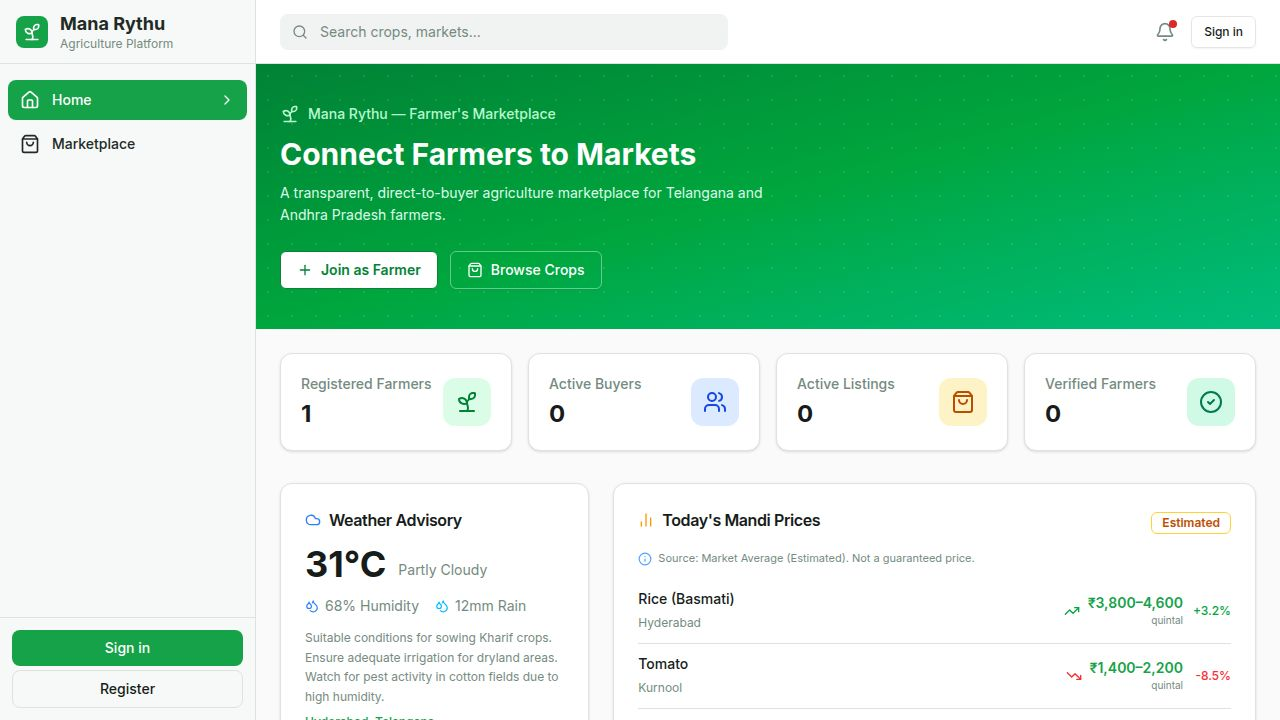
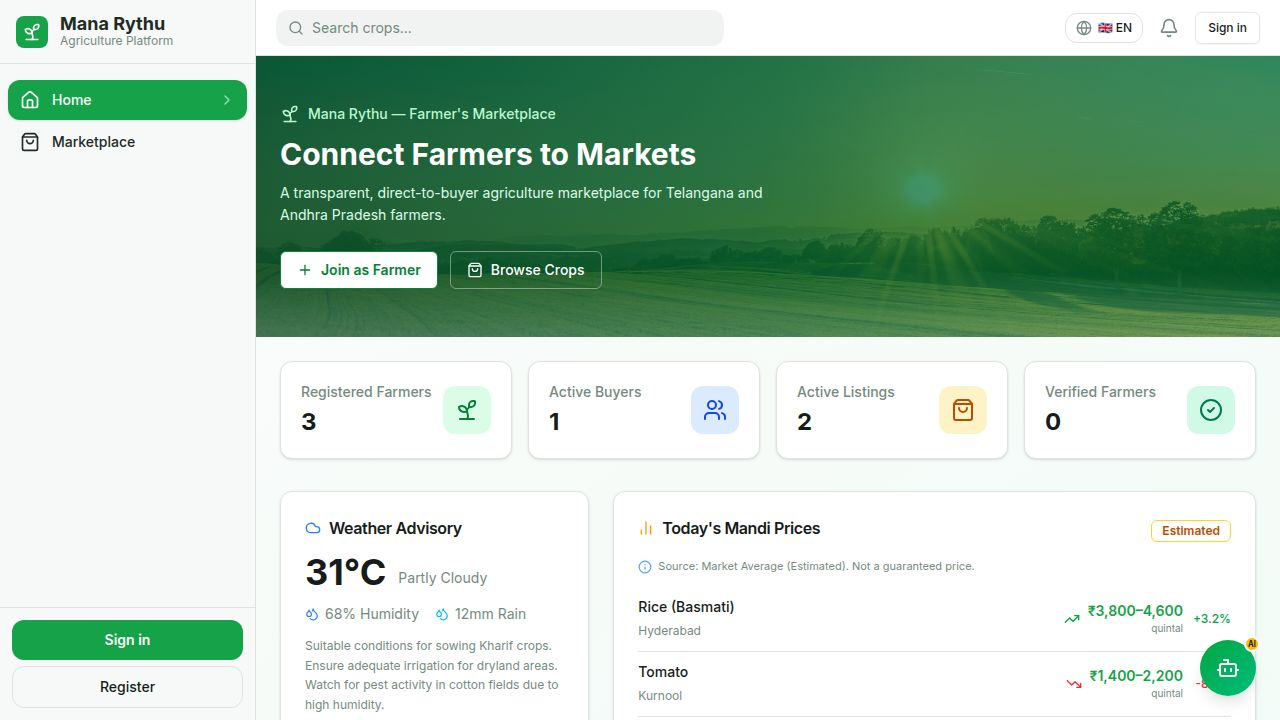
Improve storage access reliability for Safari users
Introduce safe storage utilities to handle Safari's security restrictions with localStorage, ensuring consistent application behavior across browsers.

diff --git a/artifacts/mana-rythu/src/lib/storage.ts b/artifacts/mana-rythu/src/lib/storage.ts
@@ -1,0 +1,25 @@
+const memoryFallback: Record<string, string> = {};
+
+export function safeGetItem(key: string): string | null {
+  try {
+    return localStorage.getItem(key);
+  } catch {
+    return memoryFallback[key] ?? null;
+  }
+}
+
+export function safeSetItem(key: string, value: string): void {
+  try {
+    localStorage.setItem(key, value);
+  } catch {
+    memoryFallback[key] = value;
+  }
+}
+
+export function safeRemoveItem(key: string): void {
+  try {
+    localStorage.removeItem(key);
+  } catch {
+    delete memoryFallback[key];
+  }
+}

diff --git a/artifacts/mana-rythu/src/contexts/language.tsx b/artifacts/mana-rythu/src/contexts/language.tsx
@@ -1,5 +1,6 @@
 import { createContext, useContext, useState, type ReactNode } from "react";
 import { translations, type Lang, type TranslationKey } from "@/lib/translations";
+import { safeGetItem, safeSetItem } from "@/lib/storage";
 
 export type { Lang };
 
@@ -13,20 +14,25 @@ const LanguageContext = createContext<LanguageContextValue | null>(null);
 
 const STORAGE_KEY = "mana_rythu_lang";
 
-export function LanguageProvider({ children }: { children: ReactNode }) {
-  const [lang, setLangState] = useState<Lang>(() => {
-    const stored = localStorage.getItem(STORAGE_KEY) as Lang | null;
-    if (stored && (stored === "en" || stored === "te" || stored === "hi")) return stored;
-    // Auto-detect browser language
+function detectInitialLang(): Lang {
+  const stored = safeGetItem(STORAGE_KEY) as Lang | null;
+  if (stored === "en" || stored === "te" || stored === "hi") return stored;
+  try {
     const browser = navigator.language.toLowerCase();
     if (browser.startsWith("te")) return "te";
     if (browser.startsWith("hi")) return "hi";
-    return "en";
-  });
+  } catch {
+    // navigator.language unavailable (rare edge case)
+  }
+  return "en";
+}
+
+export function LanguageProvider({ children }: { children: ReactNode }) {
+  const [lang, setLangState] = useState<Lang>(detectInitialLang);
 
   const setLang = (l: Lang) => {
     setLangState(l);
-    localStorage.setItem(STORAGE_KEY, l);
+    safeSetItem(STORAGE_KEY, l);
   };
 
   const t = (key: TranslationKey): string => {

diff --git a/artifacts/mana-rythu/src/lib/auth.ts b/artifacts/mana-rythu/src/lib/auth.ts
@@ -1,11 +1,13 @@
+import { safeGetItem, safeSetItem, safeRemoveItem } from "@/lib/storage";
+
 export const setAuthToken = (token: string) => {
-  localStorage.setItem("mana_rythu_token", token);
+  safeSetItem("mana_rythu_token", token);
 };
 
 export const getAuthToken = () => {
-  return localStorage.getItem("mana_rythu_token");
+  return safeGetItem("mana_rythu_token");
 };
 
 export const clearAuthToken = () => {
-  localStorage.removeItem("mana_rythu_token");
+  safeRemoveItem("mana_rythu_token");
 };

diff --git a/artifacts/mana-rythu/vite.config.ts b/artifacts/mana-rythu/vite.config.ts
@@ -26,14 +26,15 @@ if (!basePath) {
   );
 }
 
+const isReplit = !!process.env.REPL_ID;
+
 export default defineConfig({
   base: basePath,
   plugins: [
     react(),
     tailwindcss(),
     runtimeErrorOverlay(),
-    ...(process.env.NODE_ENV !== "production" &&
-    process.env.REPL_ID !== undefined
+    ...(process.env.NODE_ENV !== "production" && isReplit
       ? [
           await import("@replit/vite-plugin-cartographer").then((m) =>
             m.cartographer({
@@ -66,6 +67,7 @@ export default defineConfig({
     fs: {
       strict: true,
     },
+    hmr: true,
   },
   preview: {
     port,